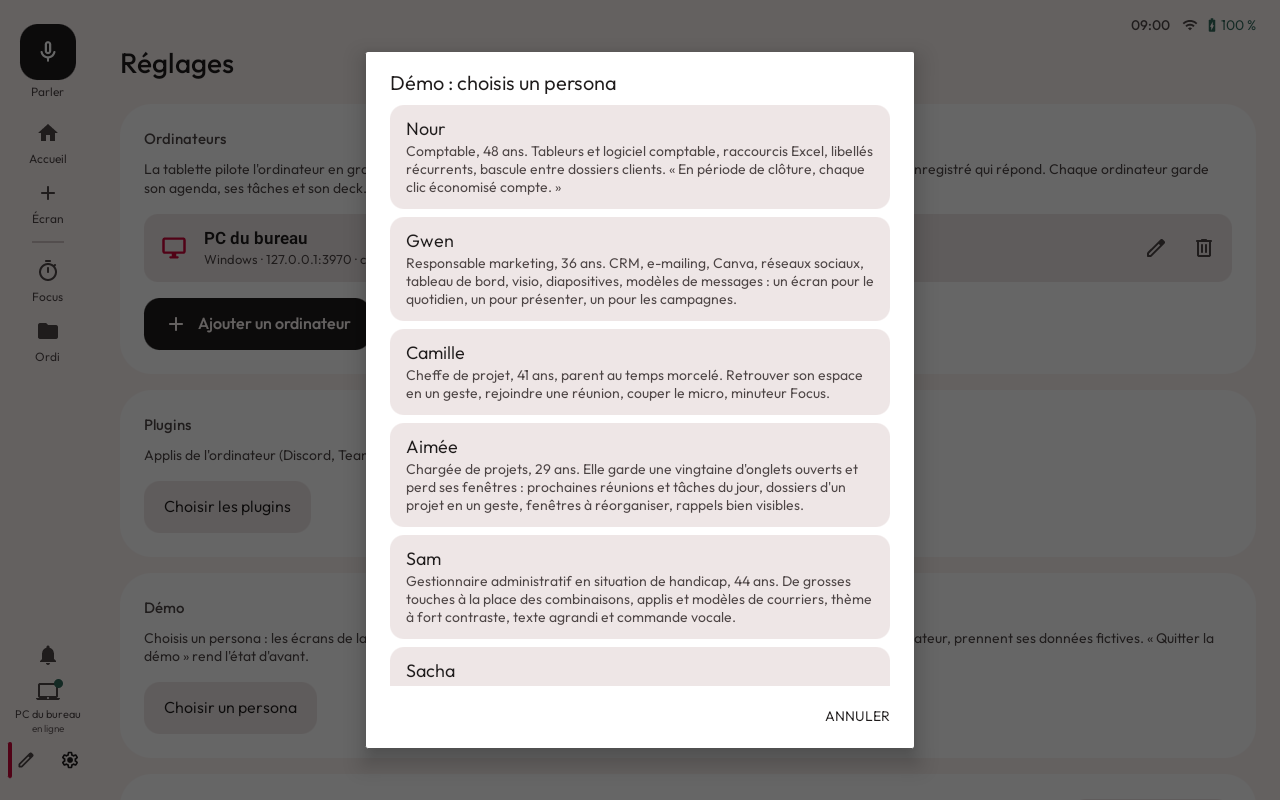
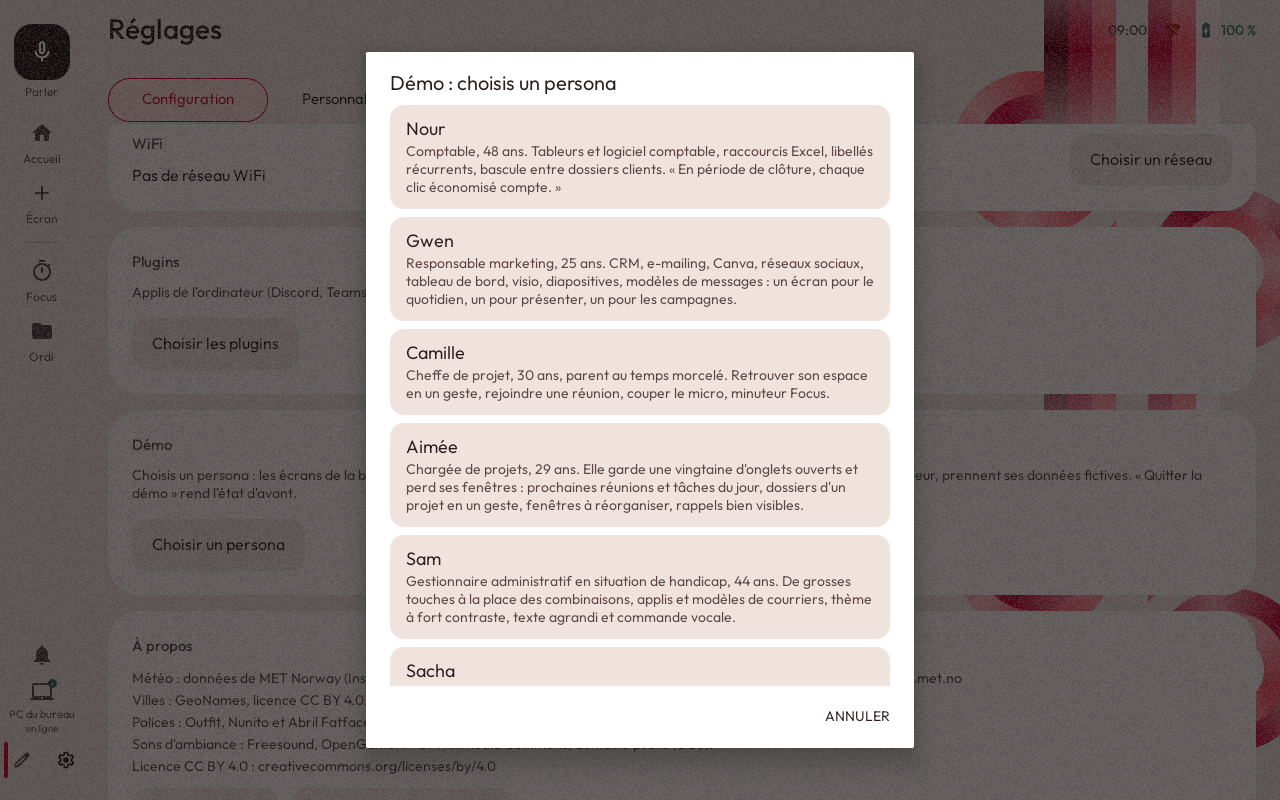
Vidéo de démo : retours sur le film

diff --git a/video/demo/compositions/parcours.html b/video/demo/compositions/parcours.html
@@ -98,29 +98,29 @@
     <div id="d-z-sacha-B" class="clip zoom nuit" data-start="71.20" data-duration="3.4" data-track-index="3" style="left:139.9px;top:304.2px;width:1060.0px;height:308.4px">
       <img src="assets/screens/sacha-gitlab.png" alt="" style="left:-134.9px;top:-380.6px;width:1233.5px;height:770.9px" />
     </div>
-    <div id="d-titre" class="clip" data-start="0" data-duration="4.0" data-track-index="4"><h1>Six personnes, une tablette</h1><p>UnoMate, le compagnon de bureau Unowhy</p></div>
+    <div id="d-titre" class="clip" data-start="0" data-duration="4.0" data-track-index="4"><h1>Six personnes, une tablette</h1><p>UnoMate : chaque utilisateur configure son Mate.</p></div>
     <div id="d-c-nour" class="clip col" data-start="4.0" data-duration="12.0" data-track-index="4">
       <div class="nom">Nour, 48 ans</div><div class="metier">Comptable en cabinet</div><div class="cit">« En période de clôture, chaque clic économisé compte. »</div>
       <div class="lab lab-a">Raccourcis Excel et libellés : une touche chacun</div><div class="lab lab-b" data-layout-allow-overlap>Sa clôture : étapes cochées, échéance à J-2</div>
     </div>
     <div id="d-c-gwen" class="clip col" data-start="16.0" data-duration="12.0" data-track-index="4">
-      <div class="nom">Gwen, 36 ans</div><div class="metier">Responsable marketing</div><div class="cit">« J'ai douze outils ouverts ; maintenant, chacun est à une touche. »</div>
+      <div class="nom">Gwen, 25 ans</div><div class="metier">Responsable marketing</div><div class="cit">« J'ai 12 documents ouverts ; maintenant, chacun est à une touche. »</div>
       <div class="lab lab-a">Réseaux et modèles de messages, à une touche</div><div class="lab lab-b" data-layout-allow-overlap>Diapos, chrono et micro, sous la main</div>
     </div>
     <div id="d-c-camille" class="clip col" data-start="28.0" data-duration="12.0" data-track-index="4">
-      <div class="nom">Camille, 41 ans</div><div class="metier">Cheffe de projet, en télétravail</div><div class="cit">« Une touche, et je retrouve mon bureau là où je l'avais laissé. »</div>
+      <div class="nom">Camille, 30 ans</div><div class="metier">Cheffe de projet, en télétravail</div><div class="cit">« Une touche, et je retrouve mon bureau là où je l'avais laissé. »</div>
       <div class="lab lab-a">L'école appelle : « Je m'absente »</div><div class="lab lab-b" data-layout-allow-overlap>Micro coupé, Focus en pause, fenêtres gardées</div>
     </div>
     <div id="d-c-aimee" class="clip col" data-start="40.0" data-duration="12.0" data-track-index="4">
-      <div class="nom">Aimée, 29 ans</div><div class="metier">Chargée de projets en agence</div><div class="cit">« Je ne cherche plus mes fichiers : ils sont sous mes yeux. »</div>
+      <div class="nom">Aimée, 29 ans</div><div class="metier">Chargée de projets en agence</div><div class="cit">« Je ne peux plus manquer un rendez-vous, grâce à mon Mate. »</div>
       <div class="lab lab-a">Sa prochaine réunion, toujours en vue</div><div class="lab lab-b" data-layout-allow-overlap>5 min avant : impossible de la rater</div>
     </div>
     <div id="d-c-sam" class="clip col" data-start="52.0" data-duration="12.0" data-track-index="4">
-      <div class="nom">Sam, 44 ans</div><div class="metier">Gestionnaire administratif</div><div class="cit">« Ce sont les outils qui s'adaptent à moi, et non l'inverse. »</div>
+      <div class="nom">Sam, 44 ans</div><div class="metier">Gestionnaire administratif, en situation de handicap</div><div class="cit">« Ce sont les outils qui s'adaptent à moi, et non l'inverse. »</div>
       <div class="lab lab-a">Grandes touches, fort contraste, texte agrandi</div><div class="lab lab-b" data-layout-allow-overlap>Chaque touche lancée est dite à voix haute</div>
     </div>
     <div id="d-c-sacha" class="clip col nuit" data-start="64.0" data-duration="12.0" data-track-index="4">
-      <div class="nom">Sacha, 32 ans</div><div class="metier">Développeur full-stack</div><div class="cit">« Si je peux le scripter, je l'adopte. »</div>
+      <div class="nom">Sacha, 27 ans</div><div class="metier">Développeur full-stack</div><div class="cit">« Si je peux le scripter, je l'adopte. »</div>
       <div class="lab lab-a">Ses agents Claude, d'un coup d'œil</div><div class="lab lab-b" data-layout-allow-overlap>Ses pipelines : la console de déploiement</div>
     </div>
     <div id="d-fin" class="clip" data-start="76.0" data-duration="8.0" data-track-index="4">
@@ -130,13 +130,13 @@
     </div>
     <div id="d-som">
       <div id="d-piste"></div>
-      <div id="d-s-nour" class="spt" style="left:256.0px"><i></i><b>Nour</b></div>
-      <div id="d-s-gwen" class="spt" style="left:512.0px"><i></i><b>Gwen</b></div>
-      <div id="d-s-camille" class="spt" style="left:768.0px"><i></i><b>Camille</b></div>
-      <div id="d-s-aimee" class="spt" style="left:1021.8px"><i></i><b>Aimée</b></div>
+      <div id="d-s-nour" class="spt" style="left:320.0px"><i></i><b>Nour</b></div>
+      <div id="d-s-gwen" class="spt" style="left:576.0px"><i></i><b>Gwen</b></div>
+      <div id="d-s-camille" class="spt" style="left:832.0px"><i></i><b>Camille</b></div>
+      <div id="d-s-aimee" class="spt" style="left:1088.0px"><i></i><b>Aimée</b></div>
       <div id="d-s-sam" class="spt" style="left:1344.0px"><i></i><b>Sam</b></div>
-      <div id="d-s-sacha" class="spt" style="left:1621.4px"><i></i><b>Sacha</b></div>
-      <div id="d-maint" style="left:256.0px"><i></i></div>
+      <div id="d-s-sacha" class="spt" style="left:1600.0px"><i></i><b>Sacha</b></div>
+      <div id="d-maint" style="left:320.0px"><i></i></div>
     </div>
   </div>
   <script>
@@ -206,7 +206,7 @@
     tl.to("#d-z-camille-B", { x: 30.1, y: -112.5, scale: 0.466, opacity: 0, duration: 0.4, ease: "power2.in" }, 38.15);
     tl.to("#d-tabw", { opacity: 0.3, duration: 0.4, ease: "power2.out" }, 35.20);
     tl.to("#d-tabw", { opacity: 1, duration: 0.35, ease: "power2.in" }, 38.15);
-    tl.to("#d-maint", { x: 765.8, duration: 0.6, ease: "power3.inOut" }, 39.7);
+    tl.to("#d-maint", { x: 768.0, duration: 0.6, ease: "power3.inOut" }, 39.7);
     tl.fromTo("#d-s-aimee b", { color: "#6f6666" }, { color: "#1e1b1b", duration: 0.3, ease: "none", immediateRender: false }, 40.0);
     tl.fromTo("#d-c-aimee .nom", { opacity: 0, filter: "blur(8px)" }, { opacity: 1, filter: "blur(0px)", duration: 0.2, ease: "power2.out" }, 40.15);
     tl.fromTo("#d-c-aimee .metier", { opacity: 0, filter: "blur(8px)" }, { opacity: 1, filter: "blur(0px)", duration: 0.2, ease: "power2.out" }, 40.27);
@@ -225,7 +225,7 @@
     tl.to("#d-z-aimee-B", { x: 0.0, y: 0.0, scale: 0.466, opacity: 0, duration: 0.4, ease: "power2.in" }, 50.15);
     tl.to("#d-tabw", { opacity: 0.3, duration: 0.4, ease: "power2.out" }, 47.20);
     tl.to("#d-tabw", { opacity: 1, duration: 0.35, ease: "power2.in" }, 50.15);
-    tl.to("#d-maint", { x: 1088.0, duration: 0.6, ease: "power3.inOut" }, 51.7);
+    tl.to("#d-maint", { x: 1024.0, duration: 0.6, ease: "power3.inOut" }, 51.7);
     tl.fromTo("#d-s-sam b", { color: "#6f6666" }, { color: "#1e1b1b", duration: 0.3, ease: "none", immediateRender: false }, 52.0);
     tl.fromTo("#d-c-sam .nom", { opacity: 0, filter: "blur(8px)" }, { opacity: 1, filter: "blur(0px)", duration: 0.2, ease: "power2.out" }, 52.15);
     tl.fromTo("#d-c-sam .metier", { opacity: 0, filter: "blur(8px)" }, { opacity: 1, filter: "blur(0px)", duration: 0.2, ease: "power2.out" }, 52.27);
@@ -246,7 +246,7 @@
     tl.to("#d-z-sam-B", { x: 30.1, y: -126.4, scale: 0.647, opacity: 0, duration: 0.4, ease: "power2.in" }, 62.15);
     tl.to("#d-tabw", { opacity: 0.3, duration: 0.4, ease: "power2.out" }, 59.20);
     tl.to("#d-tabw", { opacity: 1, duration: 0.35, ease: "power2.in" }, 62.15);
-    tl.to("#d-maint", { x: 1365.4, duration: 0.6, ease: "power3.inOut" }, 63.7);
+    tl.to("#d-maint", { x: 1280.0, duration: 0.6, ease: "power3.inOut" }, 63.7);
     tl.fromTo("#d-s-sacha b", { color: "#6f6666" }, { color: "#e9e1e0", duration: 0.3, ease: "none", immediateRender: false }, 64.0);
     tl.fromTo("#d-c-sacha .nom", { opacity: 0, filter: "blur(8px)" }, { opacity: 1, filter: "blur(0px)", duration: 0.2, ease: "power2.out" }, 64.15);
     tl.fromTo("#d-c-sacha .metier", { opacity: 0, filter: "blur(8px)" }, { opacity: 1, filter: "blur(0px)", duration: 0.2, ease: "power2.out" }, 64.27);

diff --git a/video/scripts/demo-parcours.py b/video/scripts/demo-parcours.py
@@ -20,7 +20,7 @@ import json
 CH = json.load(open("chapitres.json"))["chapitres"]
 OUV, DUR, FIN = 4.0, 12.0, 76.0
 TOTAL = 84.0
-def sx_h(h): return 192 + (h - 8) / 12 * 1536
+def sx(i): return 192 + (i + 0.5) * 1536 / len(CH)   # points du sommaire, à égale distance
 
 o = []; w = o.append
 w('''<template>
@@ -96,7 +96,7 @@ for i, c in enumerate(CH):
         w(f'      <img src="assets/screens/{e["img"]}.png" alt="" style="left:{-x * k:.1f}px;top:{-y * k:.1f}px;width:{1280 * k:.1f}px;height:{800 * k:.1f}px" />\n    </div>\n')
         e["_z"] = (zs, (fx(x) + zw * S / 2) - CX, (fy(y) + zh * S / 2) - CY, S / k)
 # Ouverture
-w(f'    <div id="d-titre" class="clip" data-start="0" data-duration="{OUV}" data-track-index="4"><h1>Six personnes, une tablette</h1><p>UnoMate, le compagnon de bureau Unowhy</p></div>\n')
+w(f'    <div id="d-titre" class="clip" data-start="0" data-duration="{OUV}" data-track-index="4"><h1>Six personnes, une tablette</h1><p>UnoMate : chaque utilisateur configure son Mate.</p></div>\n')
 # Colonnes
 for i, c in enumerate(CH):
     t0 = OUV + i * DUR
@@ -115,9 +115,9 @@ w(f'''    <div id="d-fin" class="clip" data-start="{FIN}" data-duration="{TOTAL 
 ''')
 # Sommaire
 w('    <div id="d-som">\n      <div id="d-piste"></div>\n')
-for c in CH:
-    w(f'      <div id="d-s-{c["id"]}" class="spt" style="left:{sx_h(c["h"]):.1f}px"><i></i><b>{c["nom"].split(",")[0]}</b></div>\n')
-w(f'      <div id="d-maint" style="left:{sx_h(CH[0]["h"]):.1f}px"><i></i></div>\n    </div>\n')
+for i, c in enumerate(CH):
+    w(f'      <div id="d-s-{c["id"]}" class="spt" style="left:{sx(i):.1f}px"><i></i><b>{c["nom"].split(",")[0]}</b></div>\n')
+w(f'      <div id="d-maint" style="left:{sx(0):.1f}px"><i></i></div>\n    </div>\n')
 w('  </div>\n  <script>\n    const tl = gsap.timeline({ paused: true });\n')
 J = lambda s: w('    ' + s + '\n')
 # Ouverture
@@ -132,7 +132,7 @@ for i, c in enumerate(CH):
     cid = c["id"]
     # Le point « maintenant » glisse vers la persona.
     if i > 0:
-        J(f'tl.to("#d-maint", {{ x: {sx_h(c["h"]) - sx_h(CH[0]["h"]):.1f}, duration: 0.6, ease: "power3.inOut" }}, {t0 - 0.3});')
+        J(f'tl.to("#d-maint", {{ x: {sx(i) - sx(0):.1f}, duration: 0.6, ease: "power3.inOut" }}, {t0 - 0.3});')
     J(f'tl.fromTo("#d-s-{cid} b", {{ color: "#6f6666" }}, {{ color: "{"#e9e1e0" if c.get("nuit") else "#1e1b1b"}", duration: 0.3, ease: "none", immediateRender: false }}, {t0});')
     # Colonne : nom, métier, citation, mot à mot de bloc en bloc.
     for j, sel in enumerate([".nom", ".metier", ".cit"]):

diff --git a/docs/personas.md b/docs/personas.md
@@ -11,11 +11,11 @@ Colonne « Fonctions » : uniquement ce qui est codé aujourd'hui (voir le CLAUD
 | Persona | Qui | Citation | Fonctions du compagnon |
 |---|---|---|---|
 | **Nour**, 48 ans | Comptable, cabinet lyonnais, ~40 dossiers clients, pics de clôture | « En période de clôture, chaque clic économisé compte. » | Écrans Excel, Dossiers, Accueil ; touches perso et macros (étapes `keys` pour les raccourcis Excel, `text` pour les libellés récurrents), page Apps, Ouvertes ; **widget Clôture** (étapes à cocher, compte à rebours d'échéance) ; thème Registre |
-| **Gwen**, 36 ans | Responsable marketing, PME B2B, une dizaine d'outils, webinaires | « J'ai douze outils ouverts en permanence ; maintenant, chacun est à une touche. » | Écrans Accueil, Présentation, Campagnes ; page Apps, touches Réseaux et Modèles, agenda, Média ; **widget Présentation** (diapos, chrono, micro) ; thème Studio |
-| **Camille**, 41 ans | Cheffe de projet, deux enfants, télétravail deux jours par semaine | « Une touche, et je retrouve mon bureau exactement là où je l'avais laissé. » | Écrans Travail, Maison ; Focus, prochain rendez-vous, tâches, touches ; **Je m'absente / Reprendre** (micro coupé, Focus en pause, fenêtres gardées, puis tout remis) ; thème Maison |
-| **Aimée**, 29 ans | Chargée de projets en agence, vingt onglets, réunions découvertes au dernier moment | « Je ne cherche plus mes fichiers : ils sont sous mes yeux. » | Écrans Accueil, Projets, Jira ; prochaine réunion, agenda, tâches, touches de dossiers de projet, Ouvertes ; **alerte plein écran 5 min avant une réunion** ; thème Tableau |
-| **Sam**, 44 ans | Gestionnaire administratif, collectivité, troubles musculosquelettiques | « Ce sont les outils qui s'adaptent à moi, et non l'inverse. » | Un écran de grandes touches ; thème Contraste élevé, texte à 1,5×, TalkBack, mot d'éveil et commande vocale, une touche = une combinaison ; **retour parlé des actions** |
-| **Sacha**, 32 ans | Développeur full-stack, mi-télétravail | « Si je peux le scripter, je l'adopte. » | Écrans Code, GitLab, Jira, Accueil ; touches Git, Tests, Déploiement, Agents Claude, GitLab, Jira, serveur MCP, touches et deck en fichiers JSON, Mac et Windows ; **widget Pipelines** (console de déploiement GitLab) ; thème Terminal |
+| **Gwen**, 25 ans | Responsable marketing, PME B2B, une dizaine d'outils, webinaires | « J'ai 12 documents ouverts ; maintenant, chacun est à une touche. » | Écrans Accueil, Présentation, Campagnes ; page Apps, touches Réseaux et Modèles, agenda, Média ; **widget Présentation** (diapos, chrono, micro) ; thème Studio |
+| **Camille**, 30 ans | Cheffe de projet, deux enfants, télétravail deux jours par semaine | « Une touche, et je retrouve mon bureau exactement là où je l'avais laissé. » | Écrans Travail, Maison ; Focus, prochain rendez-vous, tâches, touches ; **Je m'absente / Reprendre** (micro coupé, Focus en pause, fenêtres gardées, puis tout remis) ; thème Maison |
+| **Aimée**, 29 ans | Chargée de projets en agence, vingt onglets, réunions découvertes au dernier moment | « Je ne peux plus manquer un rendez-vous, grâce à mon Mate. » | Écrans Accueil, Projets, Jira ; prochaine réunion, agenda, tâches, touches de dossiers de projet, Ouvertes ; **alerte plein écran 5 min avant une réunion** ; thème Tableau |
+| **Sam**, 44 ans | Gestionnaire administratif en situation de handicap, collectivité, troubles musculosquelettiques | « Ce sont les outils qui s'adaptent à moi, et non l'inverse. » | Un écran de grandes touches ; thème Contraste élevé, texte à 1,5×, TalkBack, mot d'éveil et commande vocale, une touche = une combinaison ; **retour parlé des actions** |
+| **Sacha**, 27 ans | Développeur full-stack, mi-télétravail | « Si je peux le scripter, je l'adopte. » | Écrans Code, GitLab, Jira, Accueil ; touches Git, Tests, Déploiement, Agents Claude, GitLab, Jira, serveur MCP, touches et deck en fichiers JSON, Mac et Windows ; **widget Pipelines** (console de déploiement GitLab) ; thème Terminal |
 
 ## Détail (texte fourni)
 

diff --git a/video/demo/SPEC.md b/video/demo/SPEC.md
@@ -8,14 +8,14 @@ TIME: 84 s × 30 = 2520 images. Ouverture 4 s, six chapitres de 12 s (360 images
 
 LOOK:
 - Sol : Cadran jour `#FAF2F1` plein cadre (nuit `#100D0D` pour Sacha), aplat, grain 1 %. Aucun dégradé.
-- Héros : la tablette Unowhy 4.2, sa vraie coque vue de face (`assets/brand/tablette-4.2.png`, tirée de la photo produit SQOOL_FACE-EMPTY_SCREEN), 1040 px de large, coin haut gauche (150, 80). Dans sa zone d'écran : uniquement les captures et enregistrements réels de `../captures/`.
+- Héros : la tablette Unowhy 4.2, sa vraie coque vue de face (`assets/brand/tablette-4.2.png`, tirée de la photo produit SQOOL_FACE-EMPTY_SCREEN, plaque SQOOL effacée), 1040 px de large, coin haut gauche (150, 80). Dans sa zone d'écran : uniquement les captures et enregistrements réels de `../captures/`.
 - Colonne de droite (x 1340 à 1824) : le chapitre de la persona. Prénom et âge en Outfit 300 72 px, métier en Outfit 400 30 px `#4D4545`, citation en Outfit 300 40 px, 3 lignes au plus.
 - Gros plan : la partie de l'écran qui porte l'action sort de la tablette à 1,6 à 2× (tuile, touche, carte), garde ses vrais libellés, puis y retourne.
 - Accent `#CA0538` seulement sur le point « maintenant » de la ligne du jour qui sert de sommaire.
 
 OBJECTS:
-- La tablette Unowhy 4.2 (coque blanche, plaque SQOOL).
-- Le sommaire : la ligne du jour en bas du cadre (y 1000), 8 h à 20 h, six points pour les six personas ; le point du chapitre en cours est rouge.
+- La tablette Unowhy 4.2 (coque blanche, sans plaque).
+- Le sommaire : la ligne du jour en bas du cadre (y 1000), six points à égale distance pour les six personas ; le point du chapitre en cours est rouge.
 - Le toucher : l'onde neutre de la DA (cercle 44 px qui s'ouvre à 120 px en 12 images).
 
 MOTION:
@@ -25,7 +25,7 @@ MOTION:
 - Changement de chapitre : la colonne de droite sort en 9 images, la suivante entre en 15, décalage de 3 images par ligne ; le point du sommaire glisse.
 
 SHOTS (secondes, une seule scène `parcours`, chapitres dans l'ordre de la journée ; chaque persona est choisi dans Réglages > Démo, son thème de démo habille la tablette):
-- 0-4 : ouverture. Écran de la tablette éteint, « Six personnes, une tablette », le sommaire se dessine ; l'écran s'allume sur Nour.
+- 0-4 : ouverture. Écran de la tablette éteint, « Six personnes, une tablette » puis « UnoMate : chaque utilisateur configure son Mate. », le sommaire se dessine ; l'écran s'allume sur Nour.
 - 4-16 : Nour (Registre). Écran Excel (toucher Enregistrer, gros plan des touches Excel et Libellés), puis Accueil : widget Clôture en gros plan (étapes, J-2).
 - 16-28 : Gwen (Studio). Écran Campagnes (gros plan des touches Réseaux et Modèles), puis écran Présentation : toucher Suivante, gros plan du widget Présentation.
 - 28-40 : Camille (Maison). Écran Travail, toucher « Je m'absente » (gros plan), puis l'absence en cours : Reprendre (gros plan).
